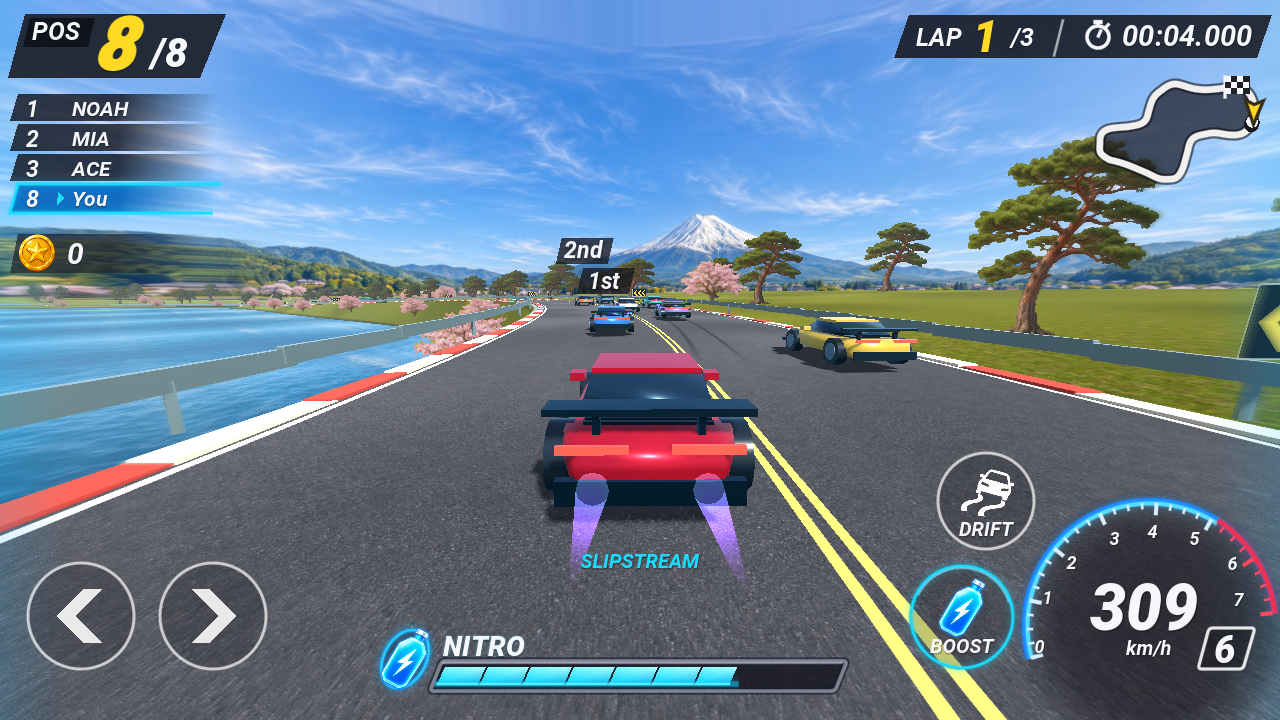
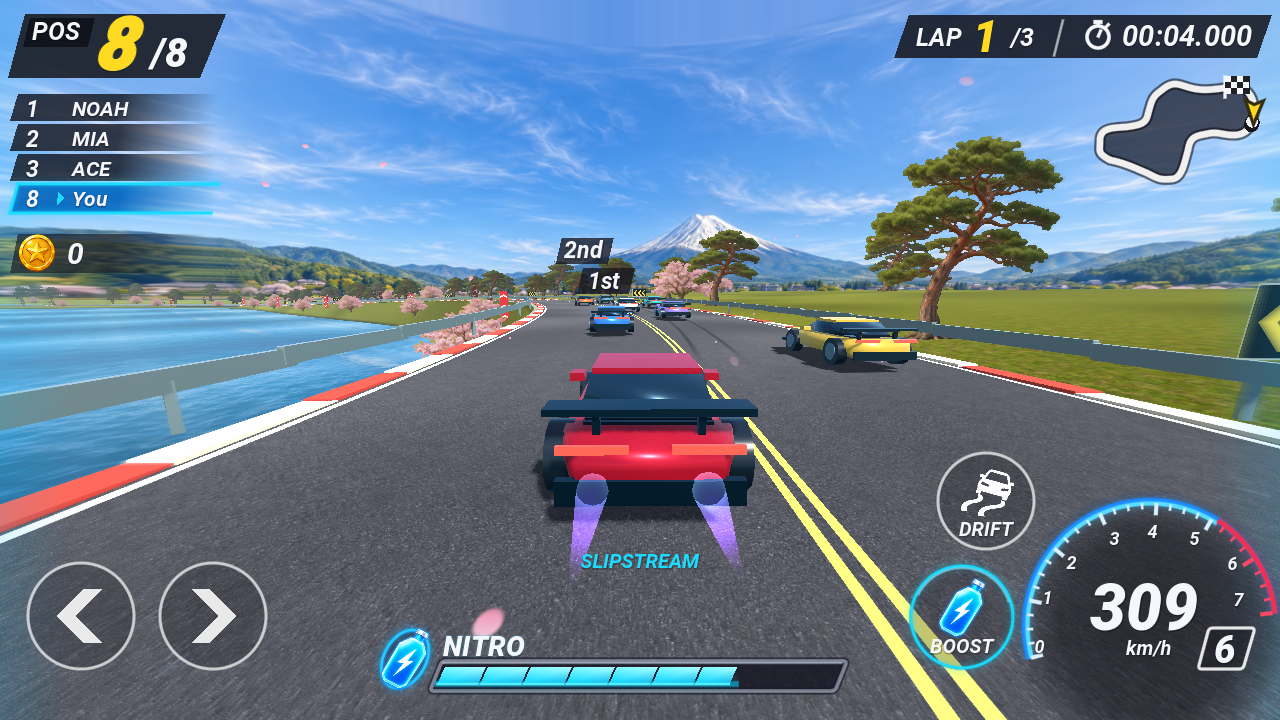
Add roadside parallax and keep layered racing audio continuous under rendering load

diff --git a/new/docs/GAME_FEEL.md b/new/docs/GAME_FEEL.md
@@ -1,4 +1,4 @@
-# Game feel review — iteration 1–4
+# Game feel review — iteration 1–5
 
 ## Measured in deterministic headless simulation
 
@@ -22,13 +22,19 @@ Raw values: `game-feel-metrics.json`. Run `godot --headless --path new --script 
 - Lower, closer chase camera, speed-sensitive FOV, restrained road vibration, impact feedback and nitro kick. Follow smoothing uses the offset from the player so speed cannot create excessive camera lag.
 - Edge speed streaks, blue nitro edge light, soft billboard tire smoke, tapered additive exhaust flames, turbo and near-miss callouts. A five-sample peripheral blur affects scenery before the HUD is drawn; reduced motion disables it.
 - Corrected inside-out vehicle surfaces and added a beveled painted shell, rear vents and spinning rims.
-- Impacts also slow the opponent. Engine playback stops on menus/mute and releases on scene exit. Explicit stream playback fixes the Web export’s unsupported sample-playback warning for generated audio.
-- Synthesized engine, tire and wind sound. V mutes sound; M reduces camera motion and streak effects, and browser reduced-motion preference is respected.
+- Impacts also slow the opponent. Engine playback stops on menus/mute and releases on scene exit. All layers explicitly use stream playback on Web.
+- Synthesized engine, tire and wind loops mixed independently of rendering frames. Countdown, drift-release, close-pass and impact sounds have short envelopes. V mutes sound; M reduces camera motion and streak effects, and browser reduced-motion preference is respected.
 - Reflective curve chevrons provide roadside motion cues.
 - Player tire trails follow the actual rear wheels during drifts, using one fixed 160-segment MultiMesh pool and fading after nine seconds. They reset between races.
 - The drift button fills a cyan/gold charge arc; releasing a gold charge awards mini turbo.
 - Pulsing countdown, start tones and a short GO cue emphasize the launch. An empty nitro tank requires 8% charge to restart, avoiding repeated tiny activation kicks.
 
+## Audio and roadside motion review
+
+The real audio mixer is captured by `tests/audio_review.gd` with a graphical display and Dummy audio. It checks nonzero output, clipping, sustained silent gaps during active sound and silence after muting; results are saved to `audio-metrics.json`, with a WAV in `user://audio-review.wav`. For example: `DISPLAY=:99 godot --path new --script res://tests/audio_review.gd --audio-driver Dummy`. This is a mixer-output test, not an assessment of speaker quality.
+
+Near-road trees, two batched red course-banner layers and a fixed 36-petal emitter provide additional motion cues. Petals remain in world space as the car passes them; reduced motion hides them. No generated environment images were replaced.
+
 ## Review discipline
 
-Check actual rendering and input after simulation. Headless speed/rank metrics do not establish perceived excitement or real-device frame rate. Keep `legacy/` unchanged. Native captures `feel-0.png` through `feel-3.png` cover acceleration, boost, drifting and drift release. A local Chromium WebGL run reached active racing and exercised Shift, M and V with no browser/Godot error output. Software-rendered frame rate is not a measurement of real-device performance. Browser checks are also required; simulation results do not establish perceived excitement or real-device frame rate.
+Check actual rendering and input after simulation. Headless speed/rank metrics do not establish perceived excitement or real-device frame rate. Keep `legacy/` unchanged. Native captures `feel-0.png` through `feel-3.png` cover acceleration, boost, drifting and drift release. A local Chromium WebGL run reached active racing and exercised Shift, M and V with no browser/Godot error output. Software-rendered frame rate is not a measurement of real-device performance.
